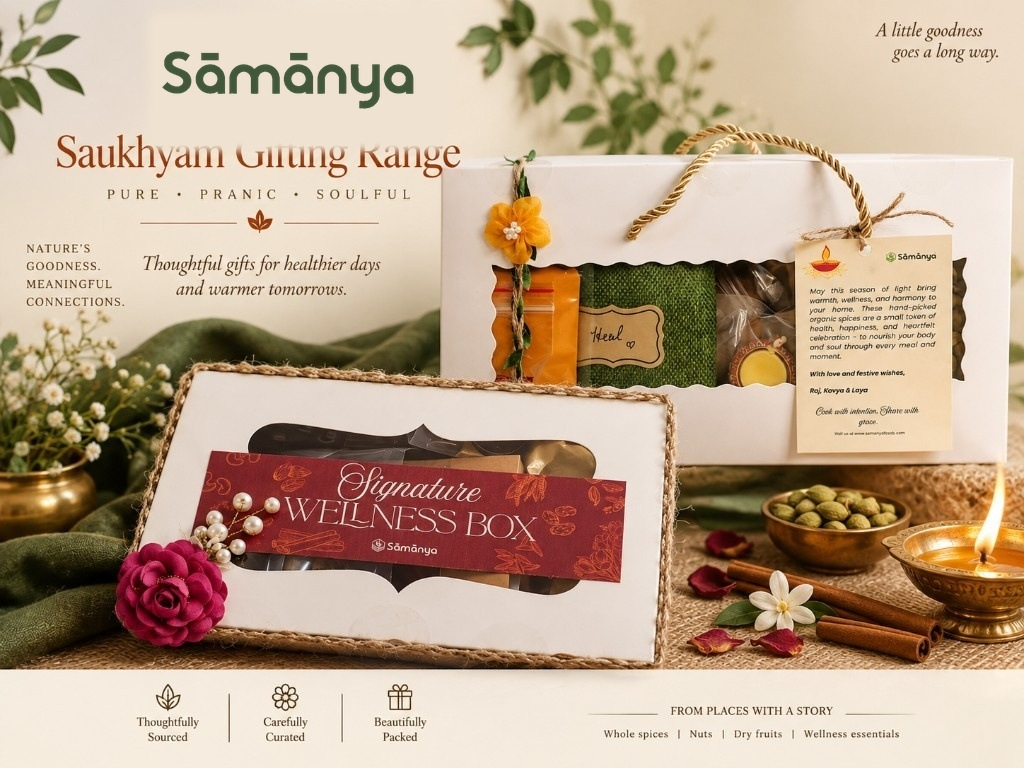
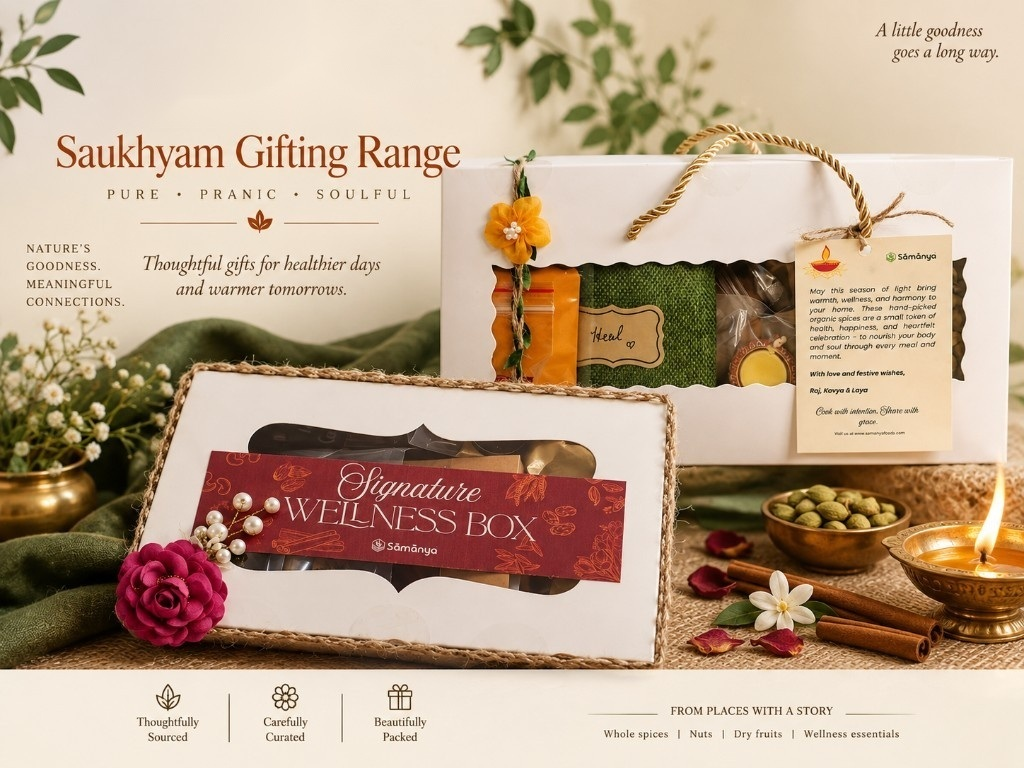
Replace the letters strip with why people choose Saukhyam, and restore the hero without the old mark.

Changed region(s): [[0.1562, 0.0625, 0.4375, 0.2188], [0.1562, 0.1875, 0.2188, 0.2188]]

diff --git a/index.html b/index.html
@@ -10,7 +10,7 @@
   <link rel="preconnect" href="https://fonts.googleapis.com" />
   <link rel="preconnect" href="https://fonts.gstatic.com" crossorigin />
   <link href="https://fonts.googleapis.com/css2?family=Cormorant+Garamond:ital,wght@0,500;0,600;0,700;1,500;1,600&family=Manrope:wght@400;500;600;700&family=Noto+Sans+Tamil:wght@500;600&display=swap" rel="stylesheet" />
-  <link rel="stylesheet" href="css/styles.css?v=35" />
+  <link rel="stylesheet" href="css/styles.css?v=36" />
   <script type="application/ld+json">
     {
       "@context": "https://schema.org",
@@ -63,7 +63,7 @@
 
   <main>
     <a class="full-strip" href="#saukhyam" aria-label="See the Saukhyam gifting range">
-      <img src="assets/saukhyam-strip.jpg?v=4" alt="Sāmānya Saukhyam gifting range: Signature Wellness Box and a windowed hamper with spices, a handwritten note, and a diya" />
+      <img src="assets/saukhyam-strip.jpg?v=5" alt="Sāmānya Saukhyam gifting range: Signature Wellness Box and a windowed hamper with spices, a handwritten note, and a diya" />
     </a>
     <div class="sketch-layer" aria-hidden="true">
       <img class="sketch sketch-gift" src="assets/sketches/gift.svg" alt="" />
@@ -300,52 +300,39 @@
       </div>
     </section>
 
-    <section class="wrap quotes" aria-label="Letters from those who received a gift">
-      <p class="kicker">Letters</p>
-      <div class="quote-slider" data-quote-slider>
-        <div class="quote-viewport">
-          <article class="quote-block quote-slide is-on">
-            <div>
-              <span class="ico-well" aria-hidden="true"><svg class="ico"><use href="assets/icons.svg#quote"></use></svg></span>
-              <blockquote class="display">“They packed my mother pepper from a named lot, not a pretty tin. When she opened it, the kitchen in Calicut came back — steam, jeera, the old steel dabba. That is a rarer gift than ribbon.”</blockquote>
-            </div>
-            <cite>Anjali, for a sixtieth birthday</cite>
-          </article>
-          <article class="quote-block quote-slide" hidden>
-            <div>
-              <span class="ico-well" aria-hidden="true"><svg class="ico"><use href="assets/icons.svg#quote"></use></svg></span>
-              <blockquote class="display">“We needed return gifts that did not look like hotel soap. Two hundred boxes left, each with a note in the family’s voice. Guests wrote afterwards to ask where the turmeric was from.”</blockquote>
-            </div>
-            <cite>Meera &amp; Kabir, a wedding in Coimbatore</cite>
-          </article>
-          <article class="quote-block quote-slide" hidden>
-            <div>
-              <span class="ico-well" aria-hidden="true"><svg class="ico"><use href="assets/icons.svg#quote"></use></svg></span>
-              <blockquote class="display">“I sent the Wellness Box after a long season of deadlines. She cooked with it for a week before she opened the card. That was the point.”</blockquote>
-            </div>
-            <cite>Rahul, for a colleague in Bengaluru</cite>
-          </article>
-          <article class="quote-block quote-slide" hidden>
-            <div>
-              <span class="ico-well" aria-hidden="true"><svg class="ico"><use href="assets/icons.svg#quote"></use></svg></span>
-              <blockquote class="display">“For Diwali I wanted something that would be eaten, not displayed. The Celebration box arrived before the guests. The saffron still smelled alive.”</blockquote>
-            </div>
-            <cite>Priya, a festival table in Chennai</cite>
-          </article>
-          <article class="quote-block quote-slide" hidden>
-            <div>
-              <span class="ico-well" aria-hidden="true"><svg class="ico"><use href="assets/icons.svg#quote"></use></svg></span>
-              <blockquote class="display">“A potli for my sister’s first kitchen — four things, a wooden spoon, a line that did not sound printed. She keeps the note in the masala drawer.”</blockquote>
-            </div>
-            <cite>Dev, a quiet Tuesday</cite>
-          </article>
+    <section class="wrap why" id="why">
+      <div class="section-head why-head">
+        <div>
+          <p class="kicker">Saukhyam</p>
+          <h2 class="display">Why people choose Saukhyam</h2>
         </div>
-        <div class="quote-controls">
-          <button type="button" class="quote-arrow" data-quote-prev aria-label="Previous letter">‹</button>
-          <div class="quote-dots" data-quote-dots></div>
-          <button type="button" class="quote-arrow" data-quote-next aria-label="Next letter">›</button>
-        </div>
-        <p class="lede quote-close">If you want a gift that is eaten, cooked with, and read in a quiet hour — start here.</p>
+      </div>
+      <div class="why-grid">
+        <article class="why-point">
+          <span class="pillar-index">01</span>
+          <h3>You don’t have to guess what’s inside.</h3>
+          <p>Every portion is named — Idukki cardamom, not “premium spices.” Wayanad pepper, not a blend number. You know exactly what you’re giving before you give it.</p>
+        </article>
+        <article class="why-point">
+          <span class="pillar-index">02</span>
+          <h3>It arrives ready, or built by you.</h3>
+          <p>Four fixed gifts for when you need to move fast. Or compose one potli at a time — pick the pantry, the size, the line — when the person matters enough to choose for.</p>
+        </article>
+        <article class="why-point">
+          <span class="pillar-index">03</span>
+          <h3>Nothing sits in a warehouse waiting to be gifted.</h3>
+          <p>Packed to order from the current lot, so what reaches them still smells like it was picked recently — not stocked.</p>
+        </article>
+        <article class="why-point">
+          <span class="pillar-index">04</span>
+          <h3>It’s sourced, not assembled.</h3>
+          <p>We work with growers and small millers directly. No anonymous bulk lots dressed up with a ribbon.</p>
+        </article>
+        <article class="why-point">
+          <span class="pillar-index">05</span>
+          <h3>It gets used, not displayed.</h3>
+          <p>Cooked with, brewed, opened into a masala dabba — not left sealed on a shelf. A gift that disappears into someone’s week is the one they remember.</p>
+        </article>
       </div>
     </section>
 

diff --git a/css/styles.css b/css/styles.css
@@ -1033,7 +1033,44 @@ section {
   color: var(--ink-soft);
 }
 
-.quote-block {
+.why-head h2 {
+  max-width: 16ch;
+}
+
+.why-grid {
+  display: grid;
+  grid-template-columns: 1fr 1fr;
+  gap: 16px;
+}
+
+.why-point {
+  padding: var(--space-lg);
+  background: color-mix(in srgb, var(--ivory) 82%, white);
+  border: 1px solid var(--line);
+  border-radius: var(--radius);
+}
+
+.why-point:last-child {
+  grid-column: 1 / -1;
+}
+
+.why-point h3 {
+  font-family: var(--font-display);
+  font-size: clamp(1.5rem, 2.4vw, 2rem);
+  font-weight: 500;
+  line-height: 1.2;
+  color: var(--leaf-deep);
+  margin: 10px 0 12px;
+}
+
+.why-point p {
+  margin: 0;
+  color: var(--muted);
+  font-size: 0.98rem;
+  max-width: 46rem;
+}
+
+.cta-band {
   display: grid;
   grid-template-columns: 1.2fr 0.8fr;
   gap: var(--space-xl);
@@ -2632,6 +2669,7 @@ a.card {
   .craft-intro,
   .craft-steps,
   .quote-block,
+  .why-grid,
   .compose,
   .customise-layout,
   .story-grid,
